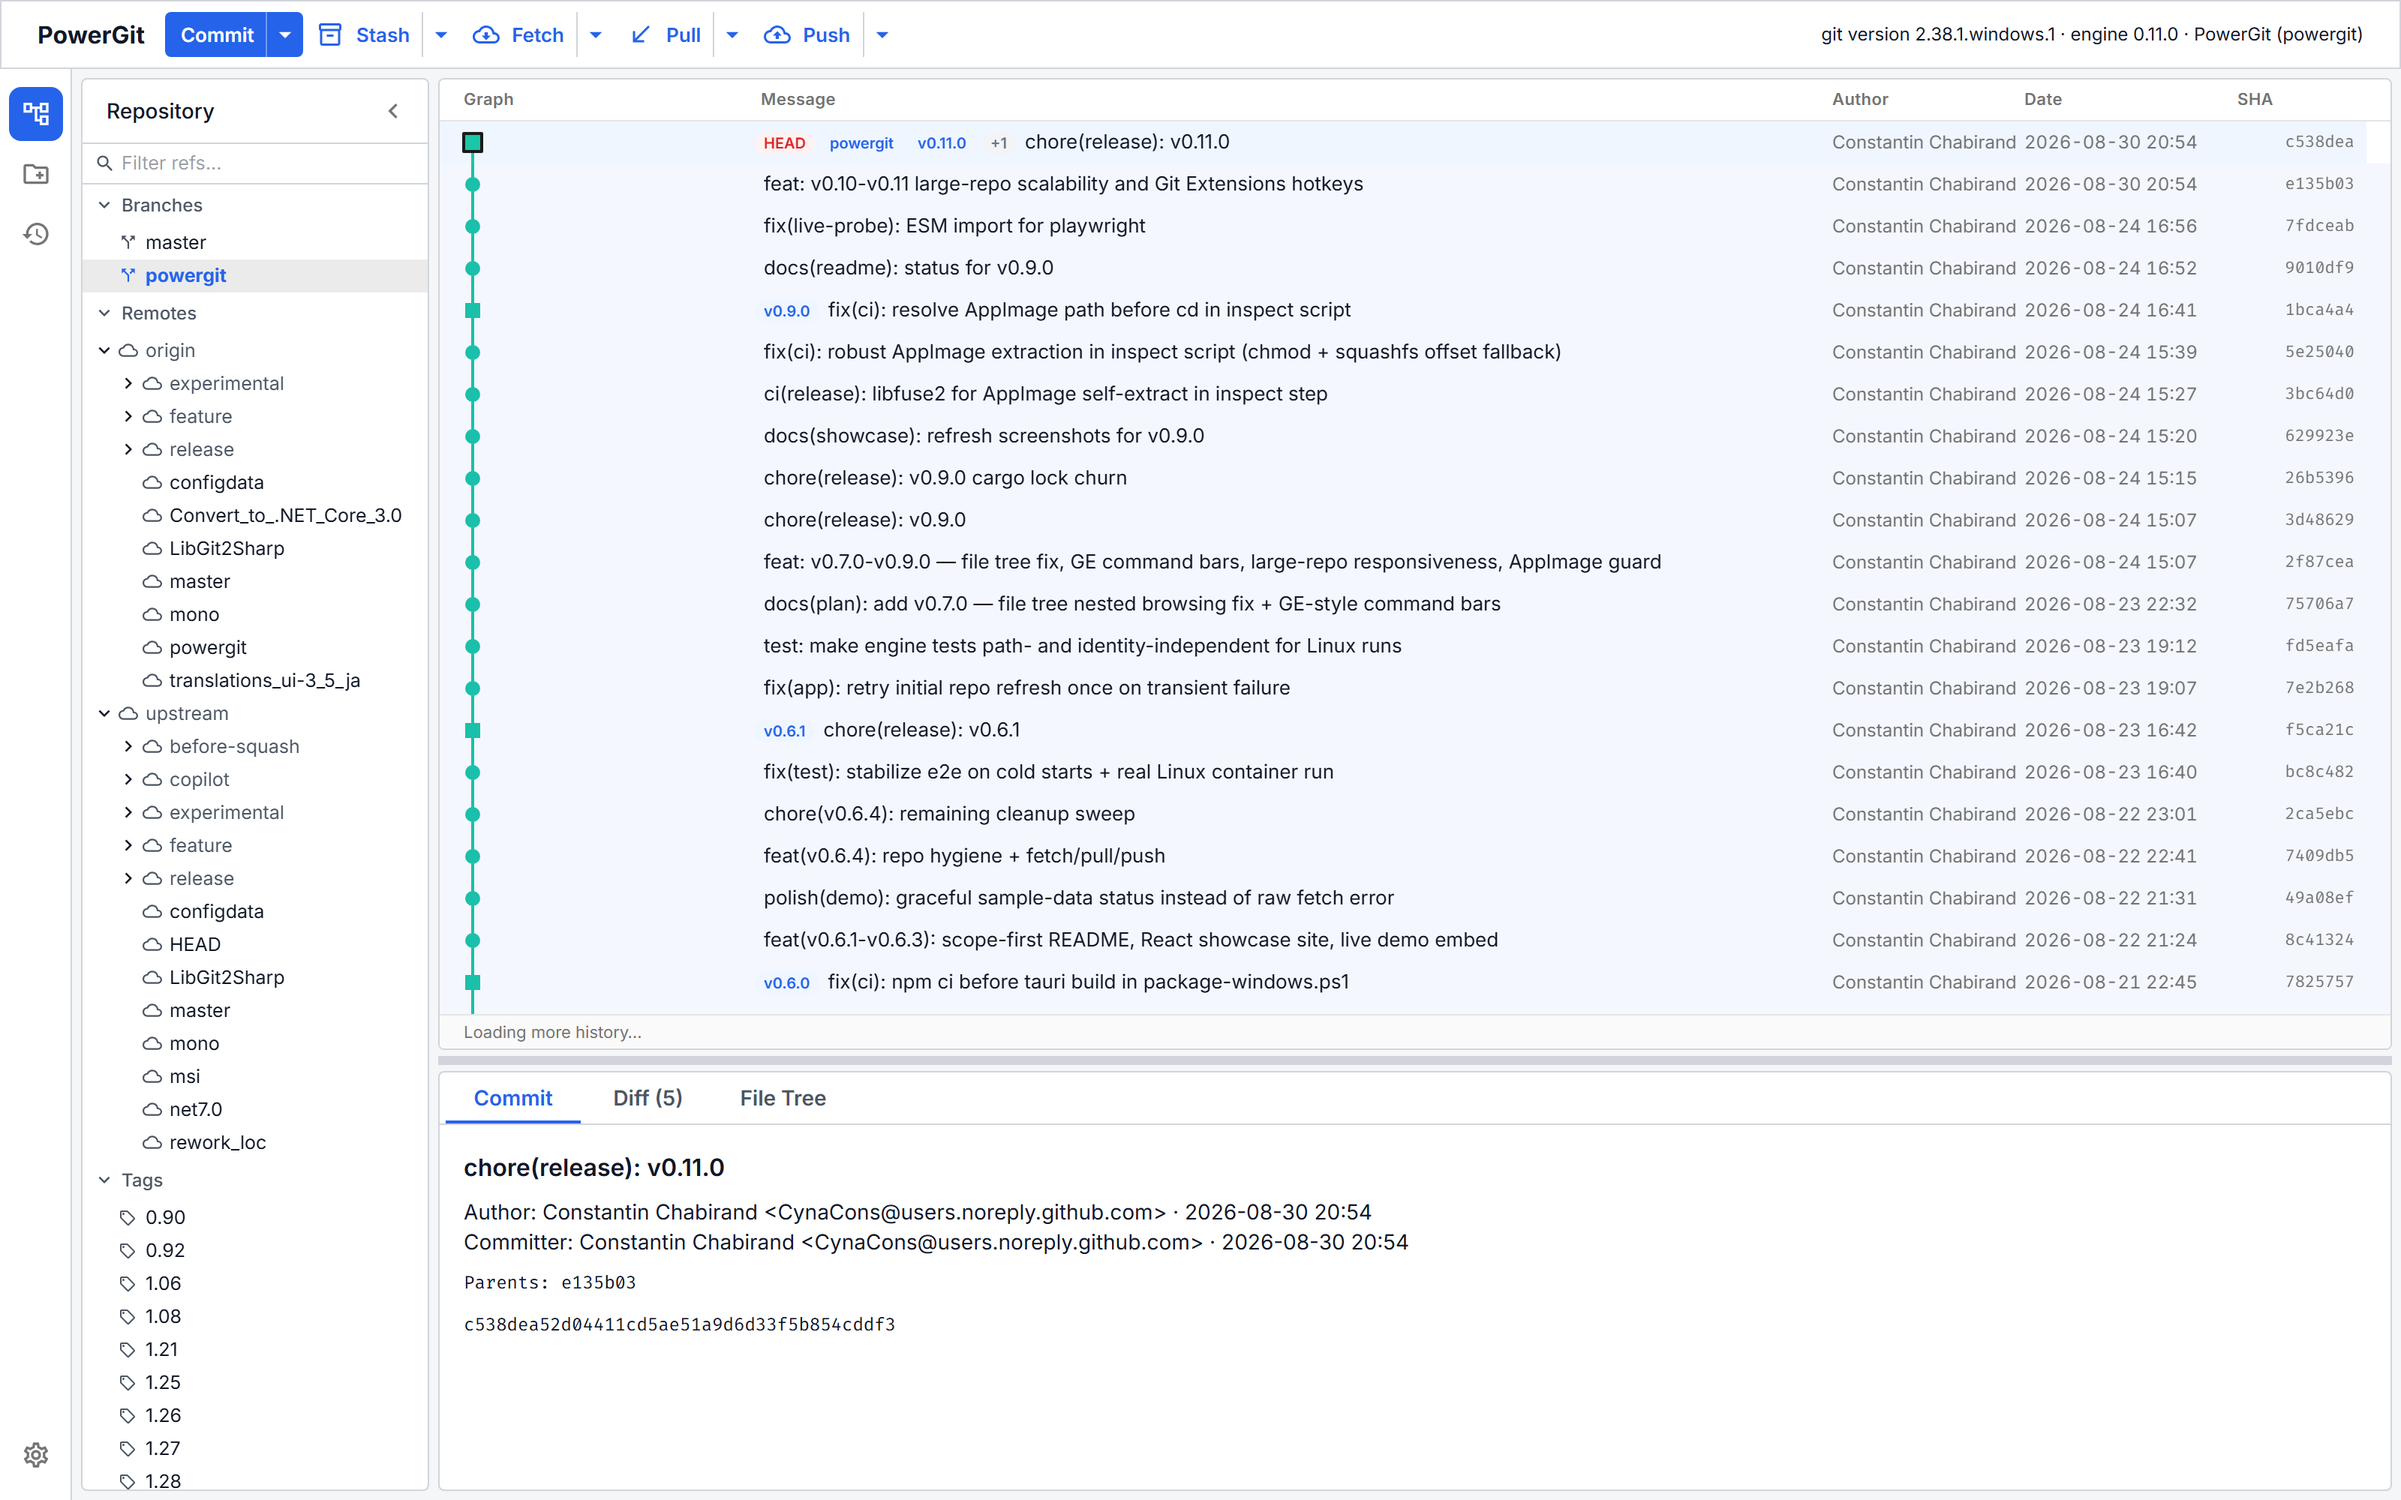
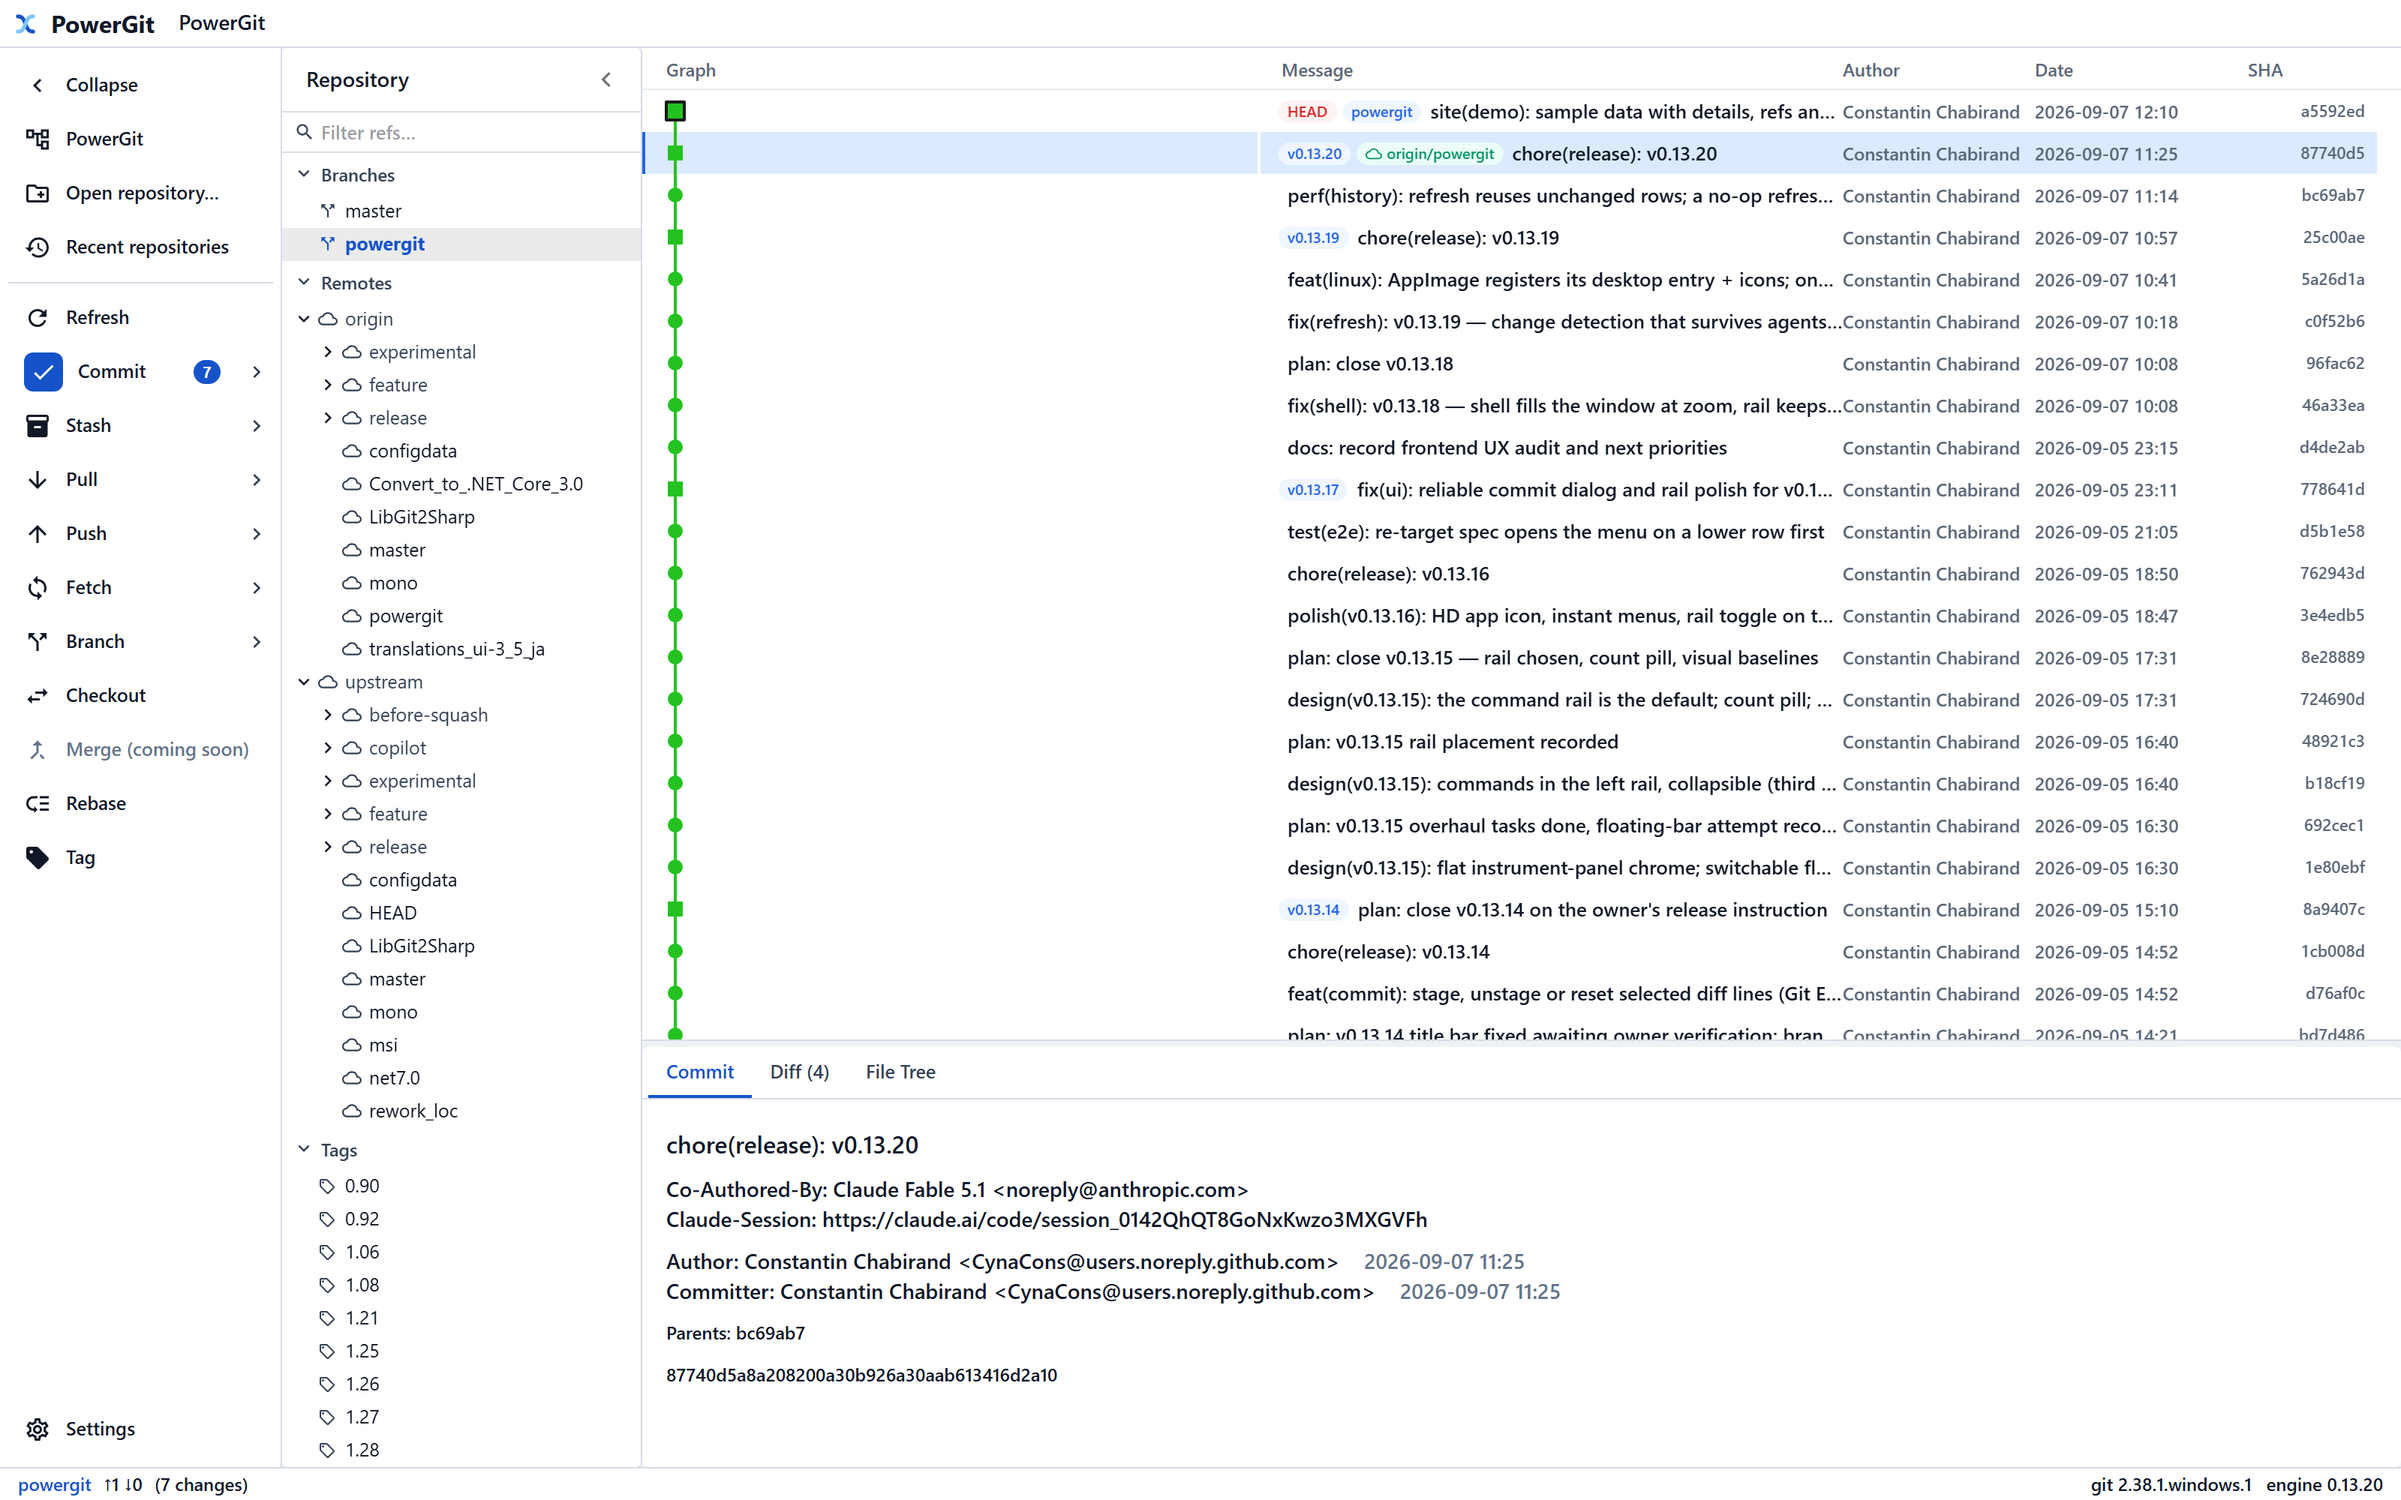
site: showcase screenshots from v0.13.20 (rail, light + dark, diff tree, file tree, commit, stash menu)
Claude-Session: https://claude.ai/code/session_0142QhQT8GoNxKwzo3MXGVFh

diff --git a/PLAN.md b/PLAN.md
@@ -486,6 +486,13 @@ Root cause analysis: linuxdeploy bundles GIO modules (gvfs, dconf) and libcurl-g
 - [x] Fix: src/hooks/historyMerge.ts — mergeReload reuses the existing Revision object when id, subject, author, date, parents and refs are equal, splices the tail as before, and reports `unchanged`; reloadHistory then skips setRevisions entirely, so a no-op refresh costs one /revisions fetch and a compare, no clone, no relayout. A new commit on top still relayouts (a prepend cannot be incremental) but only the changed rows are new objects. Unit tests: historyMerge.test.ts (unchanged, new-commit-on-top, lost overlap, short page), vitest 86/86, tsc + eslint clean. Not run: e2e against a 10k-revision repository. [agent: claude]
 - [x] Owner ticks: on eve-aps4305 (10k revisions) a refresh, F5 or returning to the window no longer freezes the UI; the graph stays put when nothing changed. [agent: owner-release-2026-09-07]
 
+### v0.13.21 — Showcase page, demo and screenshots (current) (ACTIVE)
+**Goal:** Owner (2026-09-07): "We need to update the page and refine the demo and fix the screenshots." The Pages site shipped without a single image (base path), a v0.6.0 download button, screenshots from v0.13.17, and a demo whose bottom panel showed an engine error.
+- [x] Site: images resolve under the /PowerGit/ base (they all 404ed), the download button and screens caption read the version from frontend/package.json at build time, feature cards and screen captions describe v0.13.20 (rail, never stale, partial staging, frameless, AppImage launcher entry), the demo tip matches the rail layout. [agent: claude]
+- [x] Demo: sample rows with real-looking SHAs, subjects, authors and recent dates; forks and merges in the first rows; branches, remotes and tags in the ref panel; Commit and Diff tabs served from sample data (commitCache demo branch) instead of "commit failed: no repository open"; File Tree tab explains it needs the engine. Checked in the browser with ?demo=1. [agent: claude]
+- [x] Screenshots re-captured from the real app on the PowerGit repository (capture-showcase.mjs: rail layout, light + dark, diff tab in tree mode, file tree, commit dialog, Stash options menu) and each one inspected before publishing. [agent: claude]
+- [ ] Owner ticks: cynacons.github.io/PowerGit shows every screenshot, the current version on the download button, and a demo whose bottom panel shows commit details and a diff.
+
 ## Backlog
 - Drop leftover 2021 origin branches
 - Component/UI test coverage: stash flow, gitignore preview dialog, commit-dialog multi-select semantics, remote config dialog, blob viewer content
